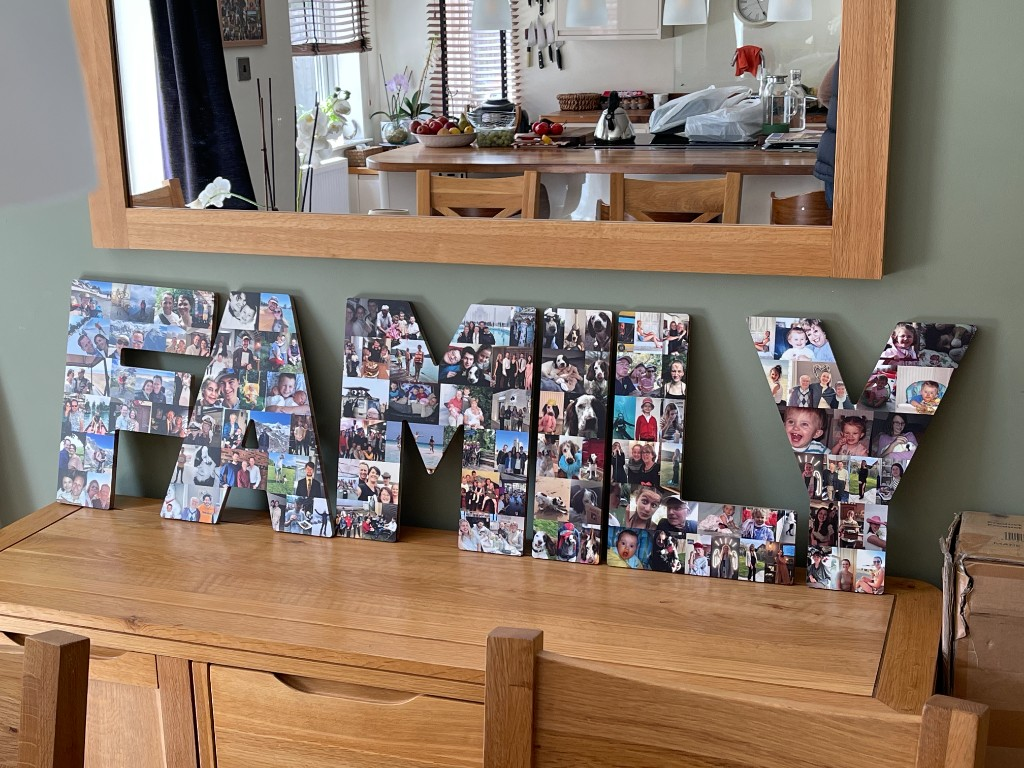
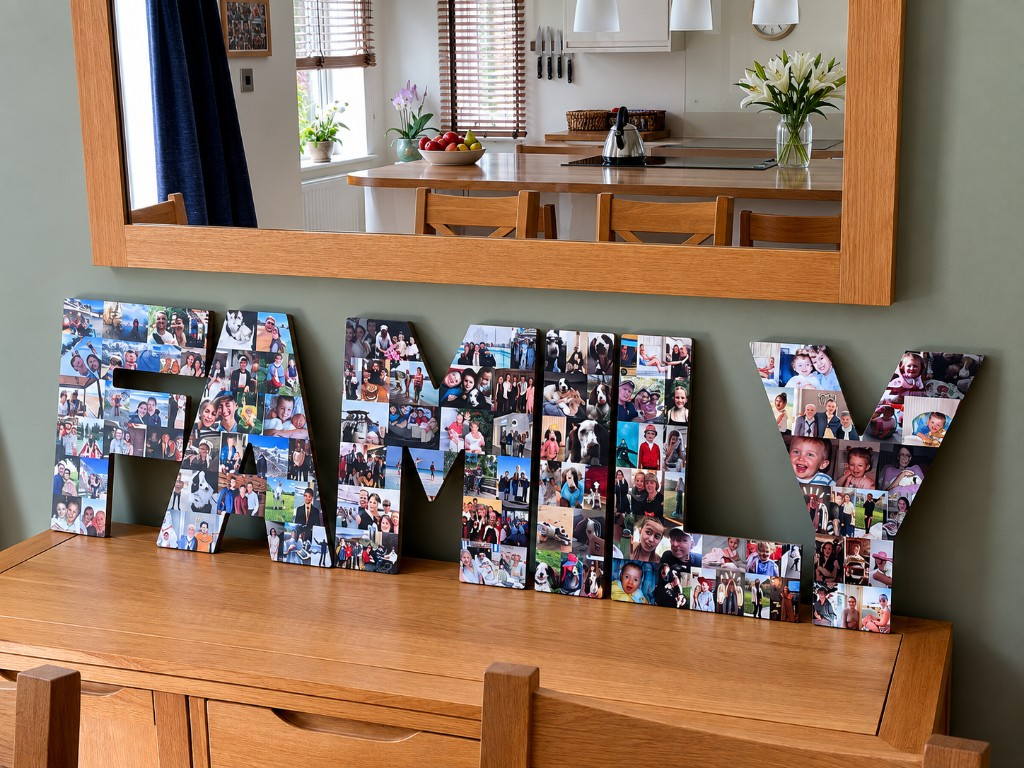
Update occasion tiles, gallery, and marquee samples.
Refresh Funerals, Just Because, and gallery photos; add 18 and heart shapes to the scrolling marquee mix; and fix a border artifact on the 18 image.

diff --git a/index.html b/index.html
@@ -53,21 +53,29 @@
           <div class="marquee-track">
             <div class="marquee-set">
               <img class="marquee-letter" src="assets/samples/son.png" alt="" loading="eager" decoding="async" />
+              <img class="marquee-letter" src="assets/samples/18.png?v=3" alt="" loading="eager" decoding="async" />
               <img class="marquee-letter" src="assets/samples/mum.png" alt="" loading="eager" decoding="async" />
+              <img class="marquee-letter" src="assets/samples/heart.png" alt="" loading="eager" decoding="async" />
               <img class="marquee-letter" src="assets/samples/family.png" alt="" loading="eager" decoding="async" />
               <img class="marquee-letter" src="assets/samples/liz.png" alt="" loading="eager" decoding="async" />
               <img class="marquee-letter" src="assets/samples/son.png" alt="" loading="eager" decoding="async" />
+              <img class="marquee-letter" src="assets/samples/18.png?v=3" alt="" loading="eager" decoding="async" />
               <img class="marquee-letter" src="assets/samples/mum.png" alt="" loading="eager" decoding="async" />
+              <img class="marquee-letter" src="assets/samples/heart.png" alt="" loading="eager" decoding="async" />
               <img class="marquee-letter" src="assets/samples/family.png" alt="" loading="eager" decoding="async" />
               <img class="marquee-letter" src="assets/samples/liz.png" alt="" loading="eager" decoding="async" />
             </div>
             <div class="marquee-set" aria-hidden="true">
               <img class="marquee-letter" src="assets/samples/son.png" alt="" loading="eager" decoding="async" />
+              <img class="marquee-letter" src="assets/samples/18.png?v=3" alt="" loading="eager" decoding="async" />
               <img class="marquee-letter" src="assets/samples/mum.png" alt="" loading="eager" decoding="async" />
+              <img class="marquee-letter" src="assets/samples/heart.png" alt="" loading="eager" decoding="async" />
               <img class="marquee-letter" src="assets/samples/family.png" alt="" loading="eager" decoding="async" />
               <img class="marquee-letter" src="assets/samples/liz.png" alt="" loading="eager" decoding="async" />
               <img class="marquee-letter" src="assets/samples/son.png" alt="" loading="eager" decoding="async" />
+              <img class="marquee-letter" src="assets/samples/18.png?v=3" alt="" loading="eager" decoding="async" />
               <img class="marquee-letter" src="assets/samples/mum.png" alt="" loading="eager" decoding="async" />
+              <img class="marquee-letter" src="assets/samples/heart.png" alt="" loading="eager" decoding="async" />
               <img class="marquee-letter" src="assets/samples/family.png" alt="" loading="eager" decoding="async" />
               <img class="marquee-letter" src="assets/samples/liz.png" alt="" loading="eager" decoding="async" />
             </div>
@@ -77,23 +85,31 @@
           <div class="marquee-track">
             <div class="marquee-set">
               <img class="marquee-letter" src="assets/samples/liz.png" alt="" loading="eager" decoding="async" />
+              <img class="marquee-letter" src="assets/samples/heart.png" alt="" loading="eager" decoding="async" />
+              <img class="marquee-letter" src="assets/samples/18.png?v=3" alt="" loading="eager" decoding="async" />
               <img class="marquee-letter" src="assets/samples/family.png" alt="" loading="eager" decoding="async" />
-              <img class="marquee-letter" src="assets/samples/mum.png" alt="" loading="eager" decoding="async" />
               <img class="marquee-letter" src="assets/samples/son.png" alt="" loading="eager" decoding="async" />
+              <img class="marquee-letter" src="assets/samples/mum.png" alt="" loading="eager" decoding="async" />
               <img class="marquee-letter" src="assets/samples/liz.png" alt="" loading="eager" decoding="async" />
+              <img class="marquee-letter" src="assets/samples/heart.png" alt="" loading="eager" decoding="async" />
+              <img class="marquee-letter" src="assets/samples/18.png?v=3" alt="" loading="eager" decoding="async" />
               <img class="marquee-letter" src="assets/samples/family.png" alt="" loading="eager" decoding="async" />
-              <img class="marquee-letter" src="assets/samples/mum.png" alt="" loading="eager" decoding="async" />
               <img class="marquee-letter" src="assets/samples/son.png" alt="" loading="eager" decoding="async" />
+              <img class="marquee-letter" src="assets/samples/mum.png" alt="" loading="eager" decoding="async" />
             </div>
             <div class="marquee-set" aria-hidden="true">
               <img class="marquee-letter" src="assets/samples/liz.png" alt="" loading="eager" decoding="async" />
+              <img class="marquee-letter" src="assets/samples/heart.png" alt="" loading="eager" decoding="async" />
+              <img class="marquee-letter" src="assets/samples/18.png?v=3" alt="" loading="eager" decoding="async" />
               <img class="marquee-letter" src="assets/samples/family.png" alt="" loading="eager" decoding="async" />
-              <img class="marquee-letter" src="assets/samples/mum.png" alt="" loading="eager" decoding="async" />
               <img class="marquee-letter" src="assets/samples/son.png" alt="" loading="eager" decoding="async" />
+              <img class="marquee-letter" src="assets/samples/mum.png" alt="" loading="eager" decoding="async" />
               <img class="marquee-letter" src="assets/samples/liz.png" alt="" loading="eager" decoding="async" />
+              <img class="marquee-letter" src="assets/samples/heart.png" alt="" loading="eager" decoding="async" />
+              <img class="marquee-letter" src="assets/samples/18.png?v=3" alt="" loading="eager" decoding="async" />
               <img class="marquee-letter" src="assets/samples/family.png" alt="" loading="eager" decoding="async" />
-              <img class="marquee-letter" src="assets/samples/mum.png" alt="" loading="eager" decoding="async" />
               <img class="marquee-letter" src="assets/samples/son.png" alt="" loading="eager" decoding="async" />
+              <img class="marquee-letter" src="assets/samples/mum.png" alt="" loading="eager" decoding="async" />
             </div>
           </div>
         </div>
@@ -102,21 +118,29 @@
             <div class="marquee-set">
               <img class="marquee-letter" src="assets/samples/mum.png" alt="" loading="eager" decoding="async" />
               <img class="marquee-letter" src="assets/samples/son.png" alt="" loading="eager" decoding="async" />
+              <img class="marquee-letter" src="assets/samples/heart.png" alt="" loading="eager" decoding="async" />
               <img class="marquee-letter" src="assets/samples/liz.png" alt="" loading="eager" decoding="async" />
+              <img class="marquee-letter" src="assets/samples/18.png?v=3" alt="" loading="eager" decoding="async" />
               <img class="marquee-letter" src="assets/samples/family.png" alt="" loading="eager" decoding="async" />
               <img class="marquee-letter" src="assets/samples/mum.png" alt="" loading="eager" decoding="async" />
               <img class="marquee-letter" src="assets/samples/son.png" alt="" loading="eager" decoding="async" />
+              <img class="marquee-letter" src="assets/samples/heart.png" alt="" loading="eager" decoding="async" />
               <img class="marquee-letter" src="assets/samples/liz.png" alt="" loading="eager" decoding="async" />
+              <img class="marquee-letter" src="assets/samples/18.png?v=3" alt="" loading="eager" decoding="async" />
               <img class="marquee-letter" src="assets/samples/family.png" alt="" loading="eager" decoding="async" />
             </div>
             <div class="marquee-set" aria-hidden="true">
               <img class="marquee-letter" src="assets/samples/mum.png" alt="" loading="eager" decoding="async" />
               <img class="marquee-letter" src="assets/samples/son.png" alt="" loading="eager" decoding="async" />
+              <img class="marquee-letter" src="assets/samples/heart.png" alt="" loading="eager" decoding="async" />
               <img class="marquee-letter" src="assets/samples/liz.png" alt="" loading="eager" decoding="async" />
+              <img class="marquee-letter" src="assets/samples/18.png?v=3" alt="" loading="eager" decoding="async" />
               <img class="marquee-letter" src="assets/samples/family.png" alt="" loading="eager" decoding="async" />
               <img class="marquee-letter" src="assets/samples/mum.png" alt="" loading="eager" decoding="async" />
               <img class="marquee-letter" src="assets/samples/son.png" alt="" loading="eager" decoding="async" />
+              <img class="marquee-letter" src="assets/samples/heart.png" alt="" loading="eager" decoding="async" />
               <img class="marquee-letter" src="assets/samples/liz.png" alt="" loading="eager" decoding="async" />
+              <img class="marquee-letter" src="assets/samples/18.png?v=3" alt="" loading="eager" decoding="async" />
               <img class="marquee-letter" src="assets/samples/family.png" alt="" loading="eager" decoding="async" />
             </div>
           </div>
@@ -125,23 +149,31 @@
           <div class="marquee-track">
             <div class="marquee-set">
               <img class="marquee-letter" src="assets/samples/family.png" alt="" loading="eager" decoding="async" />
+              <img class="marquee-letter" src="assets/samples/18.png?v=3" alt="" loading="eager" decoding="async" />
               <img class="marquee-letter" src="assets/samples/liz.png" alt="" loading="eager" decoding="async" />
-              <img class="marquee-letter" src="assets/samples/son.png" alt="" loading="eager" decoding="async" />
+              <img class="marquee-letter" src="assets/samples/heart.png" alt="" loading="eager" decoding="async" />
               <img class="marquee-letter" src="assets/samples/mum.png" alt="" loading="eager" decoding="async" />
+              <img class="marquee-letter" src="assets/samples/son.png" alt="" loading="eager" decoding="async" />
               <img class="marquee-letter" src="assets/samples/family.png" alt="" loading="eager" decoding="async" />
+              <img class="marquee-letter" src="assets/samples/18.png?v=3" alt="" loading="eager" decoding="async" />
               <img class="marquee-letter" src="assets/samples/liz.png" alt="" loading="eager" decoding="async" />
-              <img class="marquee-letter" src="assets/samples/son.png" alt="" loading="eager" decoding="async" />
+              <img class="marquee-letter" src="assets/samples/heart.png" alt="" loading="eager" decoding="async" />
               <img class="marquee-letter" src="assets/samples/mum.png" alt="" loading="eager" decoding="async" />
+              <img class="marquee-letter" src="assets/samples/son.png" alt="" loading="eager" decoding="async" />
             </div>
             <div class="marquee-set" aria-hidden="true">
               <img class="marquee-letter" src="assets/samples/family.png" alt="" loading="eager" decoding="async" />
+              <img class="marquee-letter" src="assets/samples/18.png?v=3" alt="" loading="eager" decoding="async" />
               <img class="marquee-letter" src="assets/samples/liz.png" alt="" loading="eager" decoding="async" />
-              <img class="marquee-letter" src="assets/samples/son.png" alt="" loading="eager" decoding="async" />
+              <img class="marquee-letter" src="assets/samples/heart.png" alt="" loading="eager" decoding="async" />
               <img class="marquee-letter" src="assets/samples/mum.png" alt="" loading="eager" decoding="async" />
+              <img class="marquee-letter" src="assets/samples/son.png" alt="" loading="eager" decoding="async" />
               <img class="marquee-letter" src="assets/samples/family.png" alt="" loading="eager" decoding="async" />
+              <img class="marquee-letter" src="assets/samples/18.png?v=3" alt="" loading="eager" decoding="async" />
               <img class="marquee-letter" src="assets/samples/liz.png" alt="" loading="eager" decoding="async" />
-              <img class="marquee-letter" src="assets/samples/son.png" alt="" loading="eager" decoding="async" />
+              <img class="marquee-letter" src="assets/samples/heart.png" alt="" loading="eager" decoding="async" />
               <img class="marquee-letter" src="assets/samples/mum.png" alt="" loading="eager" decoding="async" />
+              <img class="marquee-letter" src="assets/samples/son.png" alt="" loading="eager" decoding="async" />
             </div>
           </div>
         </div>
@@ -165,7 +197,7 @@
           <div class="tiles-grid">
             <article class="tile">
               <div class="tile-photo-wrap">
-                <img class="tile-photo" src="assets/tiles/funerals.jpg" alt="" loading="lazy" />
+                <img class="tile-photo" src="assets/tiles/funerals.jpg?v=2" alt="" loading="lazy" />
               </div>
               <h2 class="tile-heading">Funerals &amp; Tributes</h2>
               <p class="tile-text">Giving those paying their respects a reason to smile at &ldquo;the time when we&hellip;&rdquo;, and a nice keepsake afterwards too.</p>
@@ -186,7 +218,7 @@
             </article>
             <article class="tile">
               <div class="tile-photo-wrap">
-                <img class="tile-photo" src="assets/tiles/just-because.jpg" alt="" loading="lazy" />
+                <img class="tile-photo" src="assets/tiles/just-because.jpg?v=2" alt="" loading="lazy" />
               </div>
               <h2 class="tile-heading">Just Because</h2>
               <p class="tile-text">We don&rsquo;t always need a celebration to celebrate. So put family photos on FAMILY letters and hang them on your wall. Or make each child&rsquo;s initial and hang it on their door.</p>

diff --git a/gallery.html b/gallery.html
@@ -45,21 +45,29 @@
           <div class="marquee-track">
             <div class="marquee-set">
               <img class="marquee-letter" src="assets/samples/son.png" alt="" loading="eager" decoding="async" />
+              <img class="marquee-letter" src="assets/samples/heart.png" alt="" loading="eager" decoding="async" />
               <img class="marquee-letter" src="assets/samples/mum.png" alt="" loading="eager" decoding="async" />
+              <img class="marquee-letter" src="assets/samples/18.png?v=3" alt="" loading="eager" decoding="async" />
               <img class="marquee-letter" src="assets/samples/family.png" alt="" loading="eager" decoding="async" />
               <img class="marquee-letter" src="assets/samples/liz.png" alt="" loading="eager" decoding="async" />
               <img class="marquee-letter" src="assets/samples/son.png" alt="" loading="eager" decoding="async" />
+              <img class="marquee-letter" src="assets/samples/heart.png" alt="" loading="eager" decoding="async" />
               <img class="marquee-letter" src="assets/samples/mum.png" alt="" loading="eager" decoding="async" />
+              <img class="marquee-letter" src="assets/samples/18.png?v=3" alt="" loading="eager" decoding="async" />
               <img class="marquee-letter" src="assets/samples/family.png" alt="" loading="eager" decoding="async" />
               <img class="marquee-letter" src="assets/samples/liz.png" alt="" loading="eager" decoding="async" />
             </div>
             <div class="marquee-set" aria-hidden="true">
               <img class="marquee-letter" src="assets/samples/son.png" alt="" loading="eager" decoding="async" />
+              <img class="marquee-letter" src="assets/samples/heart.png" alt="" loading="eager" decoding="async" />
               <img class="marquee-letter" src="assets/samples/mum.png" alt="" loading="eager" decoding="async" />
+              <img class="marquee-letter" src="assets/samples/18.png?v=3" alt="" loading="eager" decoding="async" />
               <img class="marquee-letter" src="assets/samples/family.png" alt="" loading="eager" decoding="async" />
               <img class="marquee-letter" src="assets/samples/liz.png" alt="" loading="eager" decoding="async" />
               <img class="marquee-letter" src="assets/samples/son.png" alt="" loading="eager" decoding="async" />
+              <img class="marquee-letter" src="assets/samples/heart.png" alt="" loading="eager" decoding="async" />
               <img class="marquee-letter" src="assets/samples/mum.png" alt="" loading="eager" decoding="async" />
+              <img class="marquee-letter" src="assets/samples/18.png?v=3" alt="" loading="eager" decoding="async" />
               <img class="marquee-letter" src="assets/samples/family.png" alt="" loading="eager" decoding="async" />
               <img class="marquee-letter" src="assets/samples/liz.png" alt="" loading="eager" decoding="async" />
             </div>
@@ -86,7 +94,7 @@
               <img src="assets/gallery/may.jpg" alt="MAY photo collage letters on a lawn" loading="lazy" width="1024" height="576" />
             </figure>
             <figure class="gallery-item">
-              <img src="assets/gallery/family-home.jpg" alt="FAMILY photo collage letters on a sideboard at home" loading="lazy" width="1024" height="768" />
+              <img src="assets/gallery/family-home.jpg?v=2" alt="FAMILY photo collage letters on a sideboard with mirror" loading="lazy" width="1024" height="768" />
             </figure>
         </div>
       </div>

diff --git a/about.html b/about.html
@@ -45,21 +45,29 @@
           <div class="marquee-track">
             <div class="marquee-set">
               <img class="marquee-letter" src="assets/samples/son.png" alt="" loading="eager" decoding="async" />
+              <img class="marquee-letter" src="assets/samples/heart.png" alt="" loading="eager" decoding="async" />
               <img class="marquee-letter" src="assets/samples/mum.png" alt="" loading="eager" decoding="async" />
+              <img class="marquee-letter" src="assets/samples/18.png?v=3" alt="" loading="eager" decoding="async" />
               <img class="marquee-letter" src="assets/samples/family.png" alt="" loading="eager" decoding="async" />
               <img class="marquee-letter" src="assets/samples/liz.png" alt="" loading="eager" decoding="async" />
               <img class="marquee-letter" src="assets/samples/son.png" alt="" loading="eager" decoding="async" />
+              <img class="marquee-letter" src="assets/samples/heart.png" alt="" loading="eager" decoding="async" />
               <img class="marquee-letter" src="assets/samples/mum.png" alt="" loading="eager" decoding="async" />
+              <img class="marquee-letter" src="assets/samples/18.png?v=3" alt="" loading="eager" decoding="async" />
               <img class="marquee-letter" src="assets/samples/family.png" alt="" loading="eager" decoding="async" />
               <img class="marquee-letter" src="assets/samples/liz.png" alt="" loading="eager" decoding="async" />
             </div>
             <div class="marquee-set" aria-hidden="true">
               <img class="marquee-letter" src="assets/samples/son.png" alt="" loading="eager" decoding="async" />
+              <img class="marquee-letter" src="assets/samples/heart.png" alt="" loading="eager" decoding="async" />
               <img class="marquee-letter" src="assets/samples/mum.png" alt="" loading="eager" decoding="async" />
+              <img class="marquee-letter" src="assets/samples/18.png?v=3" alt="" loading="eager" decoding="async" />
               <img class="marquee-letter" src="assets/samples/family.png" alt="" loading="eager" decoding="async" />
               <img class="marquee-letter" src="assets/samples/liz.png" alt="" loading="eager" decoding="async" />
               <img class="marquee-letter" src="assets/samples/son.png" alt="" loading="eager" decoding="async" />
+              <img class="marquee-letter" src="assets/samples/heart.png" alt="" loading="eager" decoding="async" />
               <img class="marquee-letter" src="assets/samples/mum.png" alt="" loading="eager" decoding="async" />
+              <img class="marquee-letter" src="assets/samples/18.png?v=3" alt="" loading="eager" decoding="async" />
               <img class="marquee-letter" src="assets/samples/family.png" alt="" loading="eager" decoding="async" />
               <img class="marquee-letter" src="assets/samples/liz.png" alt="" loading="eager" decoding="async" />
             </div>

diff --git a/become-a-partner.html b/become-a-partner.html
@@ -45,21 +45,29 @@
           <div class="marquee-track">
             <div class="marquee-set">
               <img class="marquee-letter" src="assets/samples/son.png" alt="" loading="eager" decoding="async" />
+              <img class="marquee-letter" src="assets/samples/heart.png" alt="" loading="eager" decoding="async" />
               <img class="marquee-letter" src="assets/samples/mum.png" alt="" loading="eager" decoding="async" />
+              <img class="marquee-letter" src="assets/samples/18.png?v=3" alt="" loading="eager" decoding="async" />
               <img class="marquee-letter" src="assets/samples/family.png" alt="" loading="eager" decoding="async" />
               <img class="marquee-letter" src="assets/samples/liz.png" alt="" loading="eager" decoding="async" />
               <img class="marquee-letter" src="assets/samples/son.png" alt="" loading="eager" decoding="async" />
+              <img class="marquee-letter" src="assets/samples/heart.png" alt="" loading="eager" decoding="async" />
               <img class="marquee-letter" src="assets/samples/mum.png" alt="" loading="eager" decoding="async" />
+              <img class="marquee-letter" src="assets/samples/18.png?v=3" alt="" loading="eager" decoding="async" />
               <img class="marquee-letter" src="assets/samples/family.png" alt="" loading="eager" decoding="async" />
               <img class="marquee-letter" src="assets/samples/liz.png" alt="" loading="eager" decoding="async" />
             </div>
             <div class="marquee-set" aria-hidden="true">
               <img class="marquee-letter" src="assets/samples/son.png" alt="" loading="eager" decoding="async" />
+              <img class="marquee-letter" src="assets/samples/heart.png" alt="" loading="eager" decoding="async" />
               <img class="marquee-letter" src="assets/samples/mum.png" alt="" loading="eager" decoding="async" />
+              <img class="marquee-letter" src="assets/samples/18.png?v=3" alt="" loading="eager" decoding="async" />
               <img class="marquee-letter" src="assets/samples/family.png" alt="" loading="eager" decoding="async" />
               <img class="marquee-letter" src="assets/samples/liz.png" alt="" loading="eager" decoding="async" />
               <img class="marquee-letter" src="assets/samples/son.png" alt="" loading="eager" decoding="async" />
+              <img class="marquee-letter" src="assets/samples/heart.png" alt="" loading="eager" decoding="async" />
               <img class="marquee-letter" src="assets/samples/mum.png" alt="" loading="eager" decoding="async" />
+              <img class="marquee-letter" src="assets/samples/18.png?v=3" alt="" loading="eager" decoding="async" />
               <img class="marquee-letter" src="assets/samples/family.png" alt="" loading="eager" decoding="async" />
               <img class="marquee-letter" src="assets/samples/liz.png" alt="" loading="eager" decoding="async" />
             </div>

diff --git a/contact.html b/contact.html
@@ -45,21 +45,29 @@
           <div class="marquee-track">
             <div class="marquee-set">
               <img class="marquee-letter" src="assets/samples/son.png" alt="" loading="eager" decoding="async" />
+              <img class="marquee-letter" src="assets/samples/heart.png" alt="" loading="eager" decoding="async" />
               <img class="marquee-letter" src="assets/samples/mum.png" alt="" loading="eager" decoding="async" />
+              <img class="marquee-letter" src="assets/samples/18.png?v=3" alt="" loading="eager" decoding="async" />
               <img class="marquee-letter" src="assets/samples/family.png" alt="" loading="eager" decoding="async" />
               <img class="marquee-letter" src="assets/samples/liz.png" alt="" loading="eager" decoding="async" />
               <img class="marquee-letter" src="assets/samples/son.png" alt="" loading="eager" decoding="async" />
+              <img class="marquee-letter" src="assets/samples/heart.png" alt="" loading="eager" decoding="async" />
               <img class="marquee-letter" src="assets/samples/mum.png" alt="" loading="eager" decoding="async" />
+              <img class="marquee-letter" src="assets/samples/18.png?v=3" alt="" loading="eager" decoding="async" />
               <img class="marquee-letter" src="assets/samples/family.png" alt="" loading="eager" decoding="async" />
               <img class="marquee-letter" src="assets/samples/liz.png" alt="" loading="eager" decoding="async" />
             </div>
             <div class="marquee-set" aria-hidden="true">
               <img class="marquee-letter" src="assets/samples/son.png" alt="" loading="eager" decoding="async" />
+              <img class="marquee-letter" src="assets/samples/heart.png" alt="" loading="eager" decoding="async" />
               <img class="marquee-letter" src="assets/samples/mum.png" alt="" loading="eager" decoding="async" />
+              <img class="marquee-letter" src="assets/samples/18.png?v=3" alt="" loading="eager" decoding="async" />
               <img class="marquee-letter" src="assets/samples/family.png" alt="" loading="eager" decoding="async" />
               <img class="marquee-letter" src="assets/samples/liz.png" alt="" loading="eager" decoding="async" />
               <img class="marquee-letter" src="assets/samples/son.png" alt="" loading="eager" decoding="async" />
+              <img class="marquee-letter" src="assets/samples/heart.png" alt="" loading="eager" decoding="async" />
               <img class="marquee-letter" src="assets/samples/mum.png" alt="" loading="eager" decoding="async" />
+              <img class="marquee-letter" src="assets/samples/18.png?v=3" alt="" loading="eager" decoding="async" />
               <img class="marquee-letter" src="assets/samples/family.png" alt="" loading="eager" decoding="async" />
               <img class="marquee-letter" src="assets/samples/liz.png" alt="" loading="eager" decoding="async" />
             </div>

diff --git a/legal.html b/legal.html
@@ -45,21 +45,29 @@
           <div class="marquee-track">
             <div class="marquee-set">
               <img class="marquee-letter" src="assets/samples/son.png" alt="" loading="eager" decoding="async" />
+              <img class="marquee-letter" src="assets/samples/heart.png" alt="" loading="eager" decoding="async" />
               <img class="marquee-letter" src="assets/samples/mum.png" alt="" loading="eager" decoding="async" />
+              <img class="marquee-letter" src="assets/samples/18.png?v=3" alt="" loading="eager" decoding="async" />
               <img class="marquee-letter" src="assets/samples/family.png" alt="" loading="eager" decoding="async" />
               <img class="marquee-letter" src="assets/samples/liz.png" alt="" loading="eager" decoding="async" />
               <img class="marquee-letter" src="assets/samples/son.png" alt="" loading="eager" decoding="async" />
+              <img class="marquee-letter" src="assets/samples/heart.png" alt="" loading="eager" decoding="async" />
               <img class="marquee-letter" src="assets/samples/mum.png" alt="" loading="eager" decoding="async" />
+              <img class="marquee-letter" src="assets/samples/18.png?v=3" alt="" loading="eager" decoding="async" />
               <img class="marquee-letter" src="assets/samples/family.png" alt="" loading="eager" decoding="async" />
               <img class="marquee-letter" src="assets/samples/liz.png" alt="" loading="eager" decoding="async" />
             </div>
             <div class="marquee-set" aria-hidden="true">
               <img class="marquee-letter" src="assets/samples/son.png" alt="" loading="eager" decoding="async" />
+              <img class="marquee-letter" src="assets/samples/heart.png" alt="" loading="eager" decoding="async" />
               <img class="marquee-letter" src="assets/samples/mum.png" alt="" loading="eager" decoding="async" />
+              <img class="marquee-letter" src="assets/samples/18.png?v=3" alt="" loading="eager" decoding="async" />
               <img class="marquee-letter" src="assets/samples/family.png" alt="" loading="eager" decoding="async" />
               <img class="marquee-letter" src="assets/samples/liz.png" alt="" loading="eager" decoding="async" />
               <img class="marquee-letter" src="assets/samples/son.png" alt="" loading="eager" decoding="async" />
+              <img class="marquee-letter" src="assets/samples/heart.png" alt="" loading="eager" decoding="async" />
               <img class="marquee-letter" src="assets/samples/mum.png" alt="" loading="eager" decoding="async" />
+              <img class="marquee-letter" src="assets/samples/18.png?v=3" alt="" loading="eager" decoding="async" />
               <img class="marquee-letter" src="assets/samples/family.png" alt="" loading="eager" decoding="async" />
               <img class="marquee-letter" src="assets/samples/liz.png" alt="" loading="eager" decoding="async" />
             </div>
